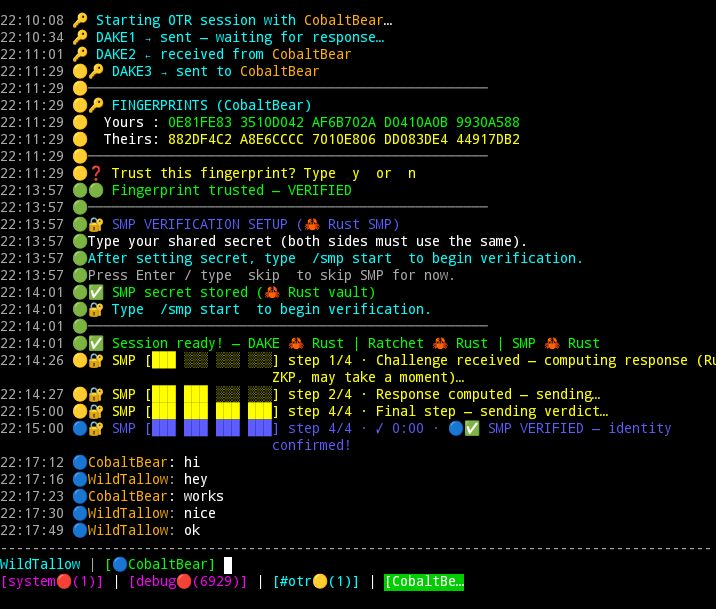
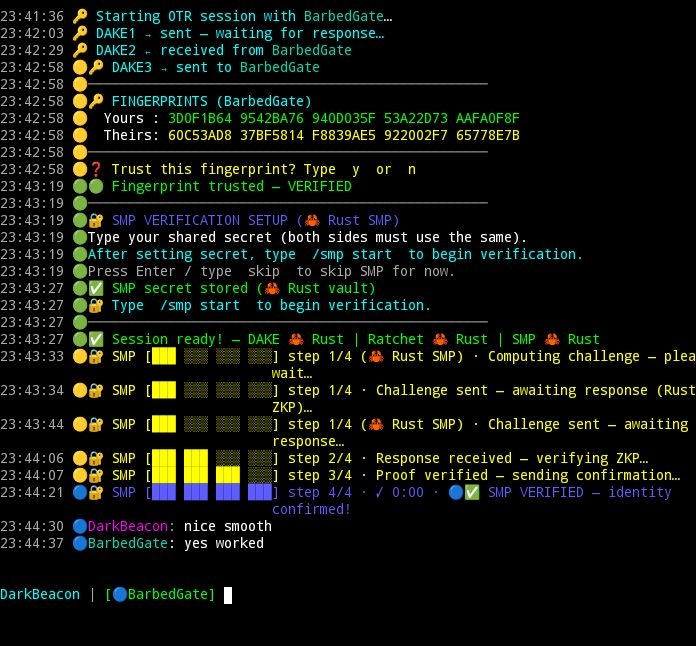
v10.8.4 — stability fixes, display overwrite fix, /names /who limits
Display:
- Fixed message overwrite in scrollback mode (removed cursor-up from _emit_line)
- Removed tabbar from _print_prompt (was corrupting chat on every keystroke)
- Auth label: 'anonymous' -> 'none' (avoids confusion with SASL ANONYMOUS)
- TLS close-notify (sock.unwrap) sent on clean /quit

Scroll:
- Ctrl+P added as alias for scroll lock (same as Ctrl+S)
- PgUp/PgDn scroll through 500-line history buffer

/names and /who:
- /who caps display at 200 rows, _otrv4_users still fully populated
- /names caps collection at 500 nicks, real channel total tracked separately
- Pager header shows correct channel size (e.g. 2516) not capped count

example.png: TLS connection through full DAKE+SMP in under 3 minutes

Changed region(s): [[0.0, 0.0, 1.0, 0.9984]]

diff --git a/otrv4+.py b/otrv4+.py
@@ -1345,7 +1345,7 @@ class OTRv4DataMessage :
         except (ValueError ,struct .error ,TypeError )as e :
             raise ValueError (f"Failed to decode message: {e }")
 
-VERSION ="OTRv4+ 10.8.3"
+VERSION ="OTRv4+ 10.8.4"
 
 if not hasattr (hashlib ,'sha3_512'):
     raise RuntimeError (
@@ -1615,14 +1615,14 @@ def _handle_input_char (ch :str ):
                 sys .stdout .write (f'\x1b[D{after } \x1b[{len (after )+1 }D')
                 sys .stdout .flush ()
         return None 
-    if ch =='\x13':  # Ctrl+S — scroll lock
+    if ch in ('\x13','\x10'):  # Ctrl+S or Ctrl+P — scroll lock toggle
         if _scroll_locked :
             _scroll_pos =0 ;_scroll_unlock ()
         else :
             _scroll_locked =True 
             with _print_lock :
                 sys .stdout .write ('\r\033[2K')
-                sys .stdout .write ('\x1b[33m[SCROLL LOCKED — PgUp/PgDn scroll, Ctrl+S to resume]\x1b[0m\n')
+                sys .stdout .write ('\x1b[33m[PAUSED — PgUp/PgDn to scroll, Ctrl+P or Ctrl+S to resume]\x1b[0m\n')
                 sys .stdout .flush ()
         return None 
 
@@ -1800,7 +1800,7 @@ def _show_scrollback (pos :int ,page :int )->None :
                 sys .stdout .write (ln +'\n')
             _pct =int (100 *end /max (1 ,total ))
             sys .stdout .write (colorize (
-            f"── SCROLL [{_pct }%] PgUp=back PgDn=fwd Ctrl+S=live ──","yellow")+'\n')
+            f"── SCROLL [{_pct }%] PgUp=back PgDn=fwd Ctrl+P/S=live ──","yellow")+'\n')
             sys .stdout .write (_current_prompt +''.join (_input_buffer ))
             sys .stdout .flush ()
         except Exception :
@@ -10021,6 +10021,8 @@ class OTRv4IRCClient :
                 users =trailing .split ()if trailing else []
                 if channel not in self .names_data :
                     self .names_data [channel ]=[]
+                if not hasattr (self ,"_names_total"):self ._names_total ={}
+                self ._names_total [channel ]=self ._names_total .get (channel ,0 )+len (users )
                 _nlim =getattr (self ,"_names_limit",500 )
                 _cur =len (self .names_data [channel ])
                 if _cur <_nlim :
@@ -10055,7 +10057,8 @@ class OTRv4IRCClient :
                     regular .sort (key =lambda x :x [1 ].lower ())
 
                     
-                    total =len (raw_users )
+                    _real_total =getattr (self ,"_names_total",{}).pop (channel ,len (raw_users ))
+                    total =_real_total 
                     _otrv4_map =getattr (self ,'_otrv4_users',{})
                     _otr_count =sum (1 for _ ,n in ops +voiced +regular if _otrv4_map .get (n ))
                     _plines =[]
@@ -10076,10 +10079,10 @@ class OTRv4IRCClient :
                     _grp ("Voiced",voiced ,"yellow")
                     _grp ("Users",regular ,"white")
                     _nlim =getattr (self ,"_names_limit",500 )
-                    _was_capped =total >_nlim 
-                    if _was_capped :
+                    _shown =len (raw_users )
+                    if total >_shown :
                         _plines .insert (0 ,colorize (
-                        f"  ⚠ Large channel — showing first {_nlim } of {total } nicks (q to quit)","yellow"))
+                        f"  ⚠ {total } users in channel — showing first {_shown } (q to quit, /names for full list)","yellow"))
                     self .names_data [channel ]=[]
                     self .pager .display (_plines ,f"Users in {_sanitise (channel ,64 )} ({total })")
                 return 
@@ -10834,7 +10837,8 @@ class OTRv4IRCClient :
                 self .names_data [ch ]=[]
                 if not hasattr (self ,'_otrv4_users'):
                     self ._otrv4_users :Dict [str ,bool ]={}
-                    
+                if not hasattr (self ,"_names_total"):self ._names_total ={}
+                self ._names_total .pop (ch ,None )
                 self .send (f"WHO {ch }")
                 self .send (f"NAMES {ch }")
                 self ._pending_names_pager =ch 
@@ -11292,6 +11296,12 @@ class OTRv4IRCClient :
         try :
             if self .sock :
                 self .send_raw ("QUIT :OTRv4 client shutting down")
+                import ssl as _ssl 
+                if isinstance (self .sock ,_ssl .SSLSocket ):
+                    try :
+                        self .sock .unwrap ()  # TLS close-notify
+                    except Exception :
+                        pass 
                 self .sock .close ()
         except Exception :
             pass 
@@ -12632,7 +12642,7 @@ def main ():
     _disp_port =config .port if config .port !=0 else (
     IRCConstants .TLS_PORT if _net =="clearnet"else IRCConstants .PORT )
     _tls_disp ="🔒 TLS"if (_net =="clearnet"and _disp_port ==IRCConstants .TLS_PORT )or config .use_tls else "plaintext"
-    _auth_disp ="SASL"if config .sasl_user else ("NickServ"if config .nickserv_login else "anonymous")
+    _auth_disp ="SASL"if config .sasl_user else ("NickServ"if config .nickserv_login else "none")
 
     safe_print (f"\n{colorize ('OTRv4 IRC Client','bold_cyan')}")
     safe_print (colorize ("="*50 ,"dim"))

diff --git a/README.md b/README.md
@@ -6,7 +6,7 @@
 <p align="center"><strong>Post-quantum secure messaging over IRC. Research prototype.</strong></p>
 
 <p align="center">
-<code>v10.8.0 · Rust crypto core · constant-time SMP · no C extensions · TUI</code>
+<code>v10.8.4 · Rust crypto core · constant-time SMP · TUI</code>
 </p>
 
 ---
@@ -17,7 +17,7 @@
   <img src="example.png" width="680" alt="OTRv4+ TUI — encrypted session with SMP verified">
 </p>
 
-<p align="center"><em>Full OTRv4 DAKE + SMP verification on Libera.chat. Blue 🔵 = identity confirmed.<br>Tab bar at the bottom — switch channels instantly with <code>/switch</code> or <code>/tab-next</code>.<br>Type <code>/tui</code> to toggle the pinned chrome on or off.</em></p>
+<p align="center"><em>Full OTRv4 DAKE + SMP verification on Libera.chat over TLS — complete in under 3 minutes. Blue 🔵 = identity confirmed by shared secret (SMP zero-knowledge proof).<br>Ctrl+P or Ctrl+S to pause incoming messages and scroll back. Type <code>/tui</code> to toggle pinned chrome.</em></p>
 
 ---
 
@@ -37,7 +37,14 @@ For someone who wants to try it in about ten minutes on Termux (Android, aarch64
 pkg install python rust openssl clang git
 ```
 
-You also need I2P running on the device with the SAM bridge enabled on port 7656. The I2P Android app from F-Droid or Google Play handles this; enable "Use SAM bridge" in its settings.
+For **clearnet/TLS** (fastest, no extra setup):
+```bash
+python otrv4+.py -s irc.libera.chat
+```
+
+For **I2P** (strongest anonymity): you need I2P running with the SAM bridge enabled on port 7656. The I2P Android app from F-Droid or Google Play handles this; enable "Use SAM bridge" in its settings.
+
+For **Tor**: Orbot must be running with SOCKS5 on port 9050.
 
 ### 2. Clone and build
 
@@ -80,9 +87,54 @@ If another user is in `#otr` (their nick is `SomeNick`), type:
 /otr SomeNick
 ```
 
-This starts the OTRv4 DAKE handshake. After about three minutes of fragmenting messages across I2P, fingerprints display. Type `y` to trust. Either side then types a shared SMP secret (anything you have agreed out of band) and runs `/smp start`. SMP completes in another minute or two and you see `✅ SMP VERIFIED` in blue.
+This starts the OTRv4 DAKE handshake. Fingerprints display once the DAKE handshake completes. Type `y` to trust. Either side then types a shared SMP secret (agreed out of band) and runs `/smp start`.
+
+Typical completion times:
+- **TLS clearnet** (e.g. Libera.chat): DAKE + SMP verified in **under 3 minutes**
+- **I2P SAM**: 5–10 minutes depending on tunnel build time
+- **Tor**: 3–6 minutes
+
+You see `✅ SMP VERIFIED` in blue when done.
 
 From that point, messages typed in the peer tab are end-to-end encrypted with post-quantum hybrid security.
+
+## TUI mode
+
+OTRv4+ includes a built-in terminal UI that pins a tab bar and input line at the bottom of the screen, keeping your chat history visible above it — useful on mobile where screen space is limited.
+
+```
+22:11:29 🔵CobaltBear: works
+22:11:30 🔵WildTallow: nice
+22:13:57 🔵WildTallow: ok
+─────────────────────────────────────────────────────────
+WildTallow | [🔵CobaltBear]
+[system🔴(1)] | [debug🔴(6929)] | [#otr🔴(1)] | [CobaltBear🔵]
+```
+
+**Toggle it on or off:**
+
+```
+/tui
+```
+
+Or explicitly:
+
+```
+/tui on
+/tui off
+```
+
+TUI is off by default — the client works as a standard scrollback IRC client without it. Enable it when you want the pinned chrome, especially on Termux where the terminal doesn't scroll cleanly.
+
+**Tab switching** (works with or without TUI):
+
+```
+/switch CobaltBear     # jump to a peer tab by name
+/tab-next              # cycle right
+/tab-prev              # cycle left
+```
+
+Tabs show security level icons — 🔴 plaintext, 🟡 encrypted, 🟢 trusted fingerprint, 🔵 SMP verified. Unread message counts appear in brackets: `[#otr🔴(3)]`.
 
 ## What success looks like
 
@@ -192,7 +244,7 @@ Run `cargo test --release --no-default-features --features pq-rust` before any r
 
 5. **Ephemeral identity by design.** Identity keys regenerate at every launch. Fingerprints change on every restart. This is a deliberate threat-model choice for an I2P-based privacy IRC client, not a missing feature. Tor Browser, Cwtch (default), and Briar (before user opt-in) all keep identities short-lived for similar reasons. See ROADMAP Phase 5.3g.
 
-6. **Wire-incompatible with stock OTRv4.** Implementations such as `pidgin-otr4` and CoyIM cannot talk to OTRv4+. The ML-DSA-87 extension, the ML-KEM-1024 brace key, and the SHAKE-256 transcript hashing are OTRv4+ additions and there is no negotiation path.
+6. **Wire-incompatible with stock OTRv4.** Implementations such as `pidgin-otr4` and CoyIM cannot talk to OTRv4+. The ML-DSA-87 extension, the ML-KEM-1024 brace key, and the SHAKE-256 transcript hashing are OTRv4+ additions and there is no negotiation path. Both peers must run OTRv4+.
 
 7. **Termux/aarch64 specific build flags.** Both `pqcrypto-mlkem` and `pqcrypto-mldsa` are pinned to `default-features = false, features = ["std"]` because their NEON-optimised C paths trigger `SIGILL` on some aarch64 phones. The portable C reference is correct on any platform; the speed difference is invisible at session scale.
 